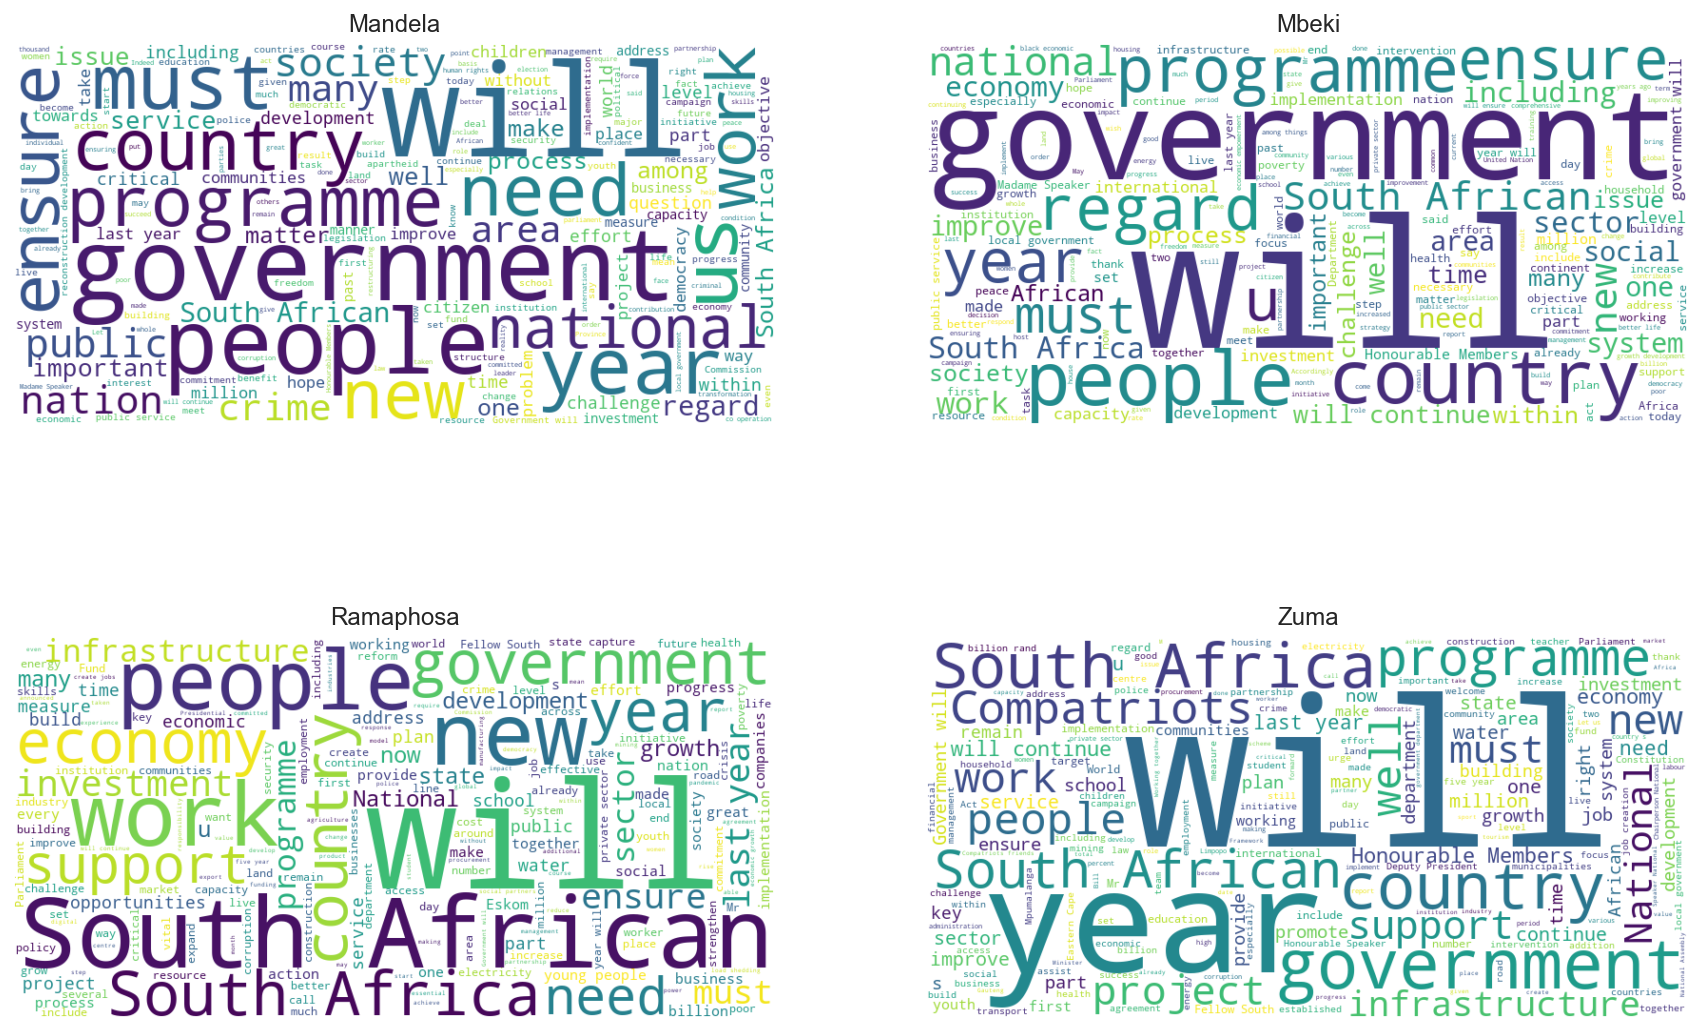
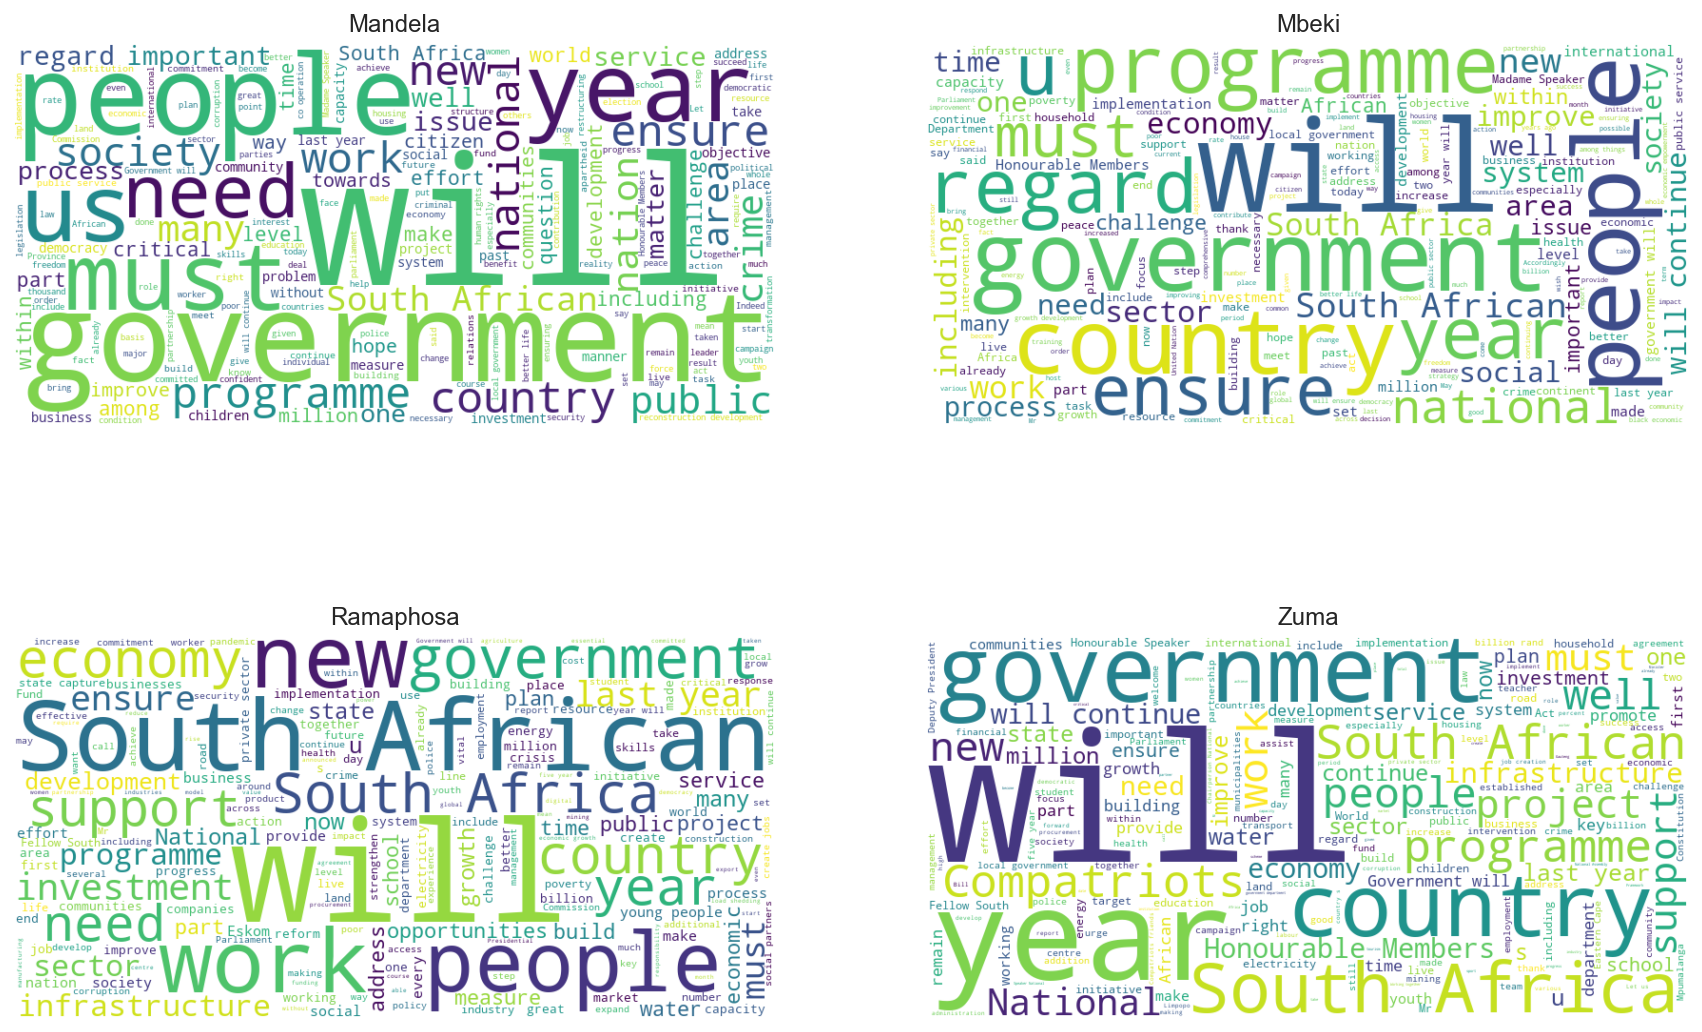
saving word embedding plots for consistency

diff --git a/docs/index.html b/docs/index.html
@@ -341,28 +341,31 @@ Test Accuracy: 58.80%</code></pre>
 <pre><code> 1/57 [..............................] - ETA: 5s</code></pre>
 </div>
 <div class="cell-output cell-output-stdout">
-<pre><code>10/57 [====&gt;.........................] - ETA: 0s</code></pre>
+<pre><code> 9/57 [===&gt;..........................] - ETA: 0s</code></pre>
 </div>
 <div class="cell-output cell-output-stdout">
-<pre><code>19/57 [=========&gt;....................] - ETA: 0s</code></pre>
+<pre><code>17/57 [=======&gt;......................] - ETA: 0s</code></pre>
 </div>
 <div class="cell-output cell-output-stdout">
-<pre><code>28/57 [=============&gt;................] - ETA: 0s</code></pre>
+<pre><code>25/57 [============&gt;.................] - ETA: 0s</code></pre>
 </div>
 <div class="cell-output cell-output-stdout">
-<pre><code>37/57 [==================&gt;...........] - ETA: 0s</code></pre>
+<pre><code>33/57 [================&gt;.............] - ETA: 0s</code></pre>
 </div>
 <div class="cell-output cell-output-stdout">
-<pre><code>46/57 [=======================&gt;......] - ETA: 0s</code></pre>
+<pre><code>41/57 [====================&gt;.........] - ETA: 0s</code></pre>
 </div>
 <div class="cell-output cell-output-stdout">
-<pre><code>55/57 [===========================&gt;..] - ETA: 0s</code></pre>
+<pre><code>48/57 [========================&gt;.....] - ETA: 0s</code></pre>
 </div>
 <div class="cell-output cell-output-stdout">
-<pre><code>57/57 [==============================] - 0s 6ms/step</code></pre>
+<pre><code>57/57 [==============================] - ETA: 0s</code></pre>
+</div>
+<div class="cell-output cell-output-stdout">
+<pre><code>57/57 [==============================] - 0s 7ms/step</code></pre>
 </div>
 <div class="cell-output cell-output-display">
-<p><img src="index_files/figure-html/cell-23-output-9.png" class="img-fluid"></p>
+<p><img src="index_files/figure-html/cell-23-output-10.png" class="img-fluid"></p>
 </div>
 </div>
 </section>
@@ -446,7 +449,7 @@ Test Accuracy: 59.58%</code></pre>
 <pre><code>27/57 [=============&gt;................] - ETA: 0s</code></pre>
 </div>
 <div class="cell-output cell-output-stdout">
-<pre><code>54/57 [===========================&gt;..] - ETA: 0s</code></pre>
+<pre><code>53/57 [==========================&gt;...] - ETA: 0s</code></pre>
 </div>
 <div class="cell-output cell-output-stdout">
 <pre><code>57/57 [==============================] - 0s 2ms/step</code></pre>
@@ -464,32 +467,18 @@ Test Accuracy: 59.58%</code></pre>
 <p>Accuracy: 29.18%</p>
 <div class="cell" data-execution_count="37">
 <div class="cell-output cell-output-stdout">
-<pre><code>Accuracy: 28.84%
+<pre><code>Accuracy: 29.18%
 Classification Report:
               precision    recall  f1-score   support
 
      Mandela       0.00      0.00      0.00       334
-       Mbeki       0.25      0.00      0.00       480
-   Ramaphosa       0.29      0.92      0.45       526
-        Zuma       0.22      0.07      0.10       456
+       Mbeki       0.00      0.00      0.00       480
+   Ramaphosa       0.29      0.95      0.45       526
+        Zuma       0.26      0.05      0.08       456
 
     accuracy                           0.29      1796
-   macro avg       0.19      0.25      0.14      1796
-weighted avg       0.21      0.29      0.16      1796
-</code></pre>
-</div>
-<div class="cell-output cell-output-stderr">
-<pre><code>/opt/anaconda3/envs/firstEnv/lib/python3.10/site-packages/sklearn/metrics/_classification.py:1469: UndefinedMetricWarning:
-
-Precision and F-score are ill-defined and being set to 0.0 in labels with no predicted samples. Use `zero_division` parameter to control this behavior.
-
-/opt/anaconda3/envs/firstEnv/lib/python3.10/site-packages/sklearn/metrics/_classification.py:1469: UndefinedMetricWarning:
-
-Precision and F-score are ill-defined and being set to 0.0 in labels with no predicted samples. Use `zero_division` parameter to control this behavior.
-
-/opt/anaconda3/envs/firstEnv/lib/python3.10/site-packages/sklearn/metrics/_classification.py:1469: UndefinedMetricWarning:
-
-Precision and F-score are ill-defined and being set to 0.0 in labels with no predicted samples. Use `zero_division` parameter to control this behavior.
+   macro avg       0.14      0.25      0.13      1796
+weighted avg       0.15      0.29      0.15      1796
 </code></pre>
 </div>
 </div>
@@ -498,31 +487,32 @@ Precision and F-score are ill-defined and being set to 0.0 in labels with no pre
 <p><img src="index_files/figure-html/cell-39-output-1.png" class="img-fluid"></p>
 </div>
 </div>
-<p>In Figure XXX we look to the confusion matrix of the GBT using word embeddings. For Mandela, there were 38 correct predictions from 334 instances, translating to an accuracy of 11.4%. The Mbeki class had 10 correct predictions from 480 instances, resulting in an accuracy of just 2.1%. The classifier showed a stronger performance for the Ramaphosa class, correctly identifying 342 out of 526 instances, yielding an accuracy of 65.0%. The Zuma class had 163 correct predictions from 456 instances, resulting in an accuracy of 35.7%.</p>
-<p>Misclassifications were also evident. Notably, 183 Mandela instances were misclassified as Ramaphosa and 111 as Zuma. For Mbeki, the classifier misidentified 244 instances as Ramaphosa and 150 as Zuma. The Ramaphosa class had 141 instances misclassified as Zuma, with smaller numbers of misclassifications into Mandela (39) and Mbeki (4). For Zuma, there were 254 instances misclassified as Ramaphosa, 36 as Mandela, and 3 as Mbeki.</p>
-<div class="cell" data-execution_count="39">
+<p>In Figure XXX we look to the confusion matrix of the GBT using word embeddings. For the Mandela class, out of 334 instances, there were no correct predictions, resulting in a classification accuracy of 0%. The Mbeki class similarly did not have any correct predictions for its primary label from 480 instances, but 3 instances were misclassified as Mandela. The Ramaphosa class achieved the highest accuracy, with 505 correct predictions out of 526 instances, translating to an accuracy of 96.0%. The Zuma class had 14 correct predictions from 456 instances, yielding an accuracy of 3.1%.</p>
+<p>Looking at misclassifications, the Mandela class had a significant 323 instances misclassified as Ramaphosa and 11 as Zuma. The Mbeki class saw a substantial 464 instances misclassified as Ramaphosa and 13 as Zuma. The Ramaphosa class had 21 instances misclassified as Zuma. Lastly, the Zuma class had a significant 442 instances misclassified as Ramaphosa.</p>
+<p>The significant misclassifications into the Ramaphosa class from other categories suggest a strong bias in the classifier towards this class, which is concerning yet somewhat unsurprising given the models performance in terms of accuracy and F1-score.</p>
+<div class="cell" data-execution_count="40">
 <div class="cell-output cell-output-display">
-<p><img src="index_files/figure-html/cell-40-output-1.png" class="img-fluid"></p>
+<p><img src="index_files/figure-html/cell-41-output-1.png" class="img-fluid"></p>
 </div>
 </div>
 </section>
 </section>
 <section id="svm-1" class="level2">
 <h2 class="anchored" data-anchor-id="svm-1">SVM</h2>
-<div class="cell" data-execution_count="41">
+<div class="cell" data-execution_count="42">
 <div class="cell-output cell-output-stdout">
-<pre><code>Accuracy (Specific SVM): 29.29%
+<pre><code>Accuracy (Specific SVM): 29.12%
 Classification Report (Specific SVM):
               precision    recall  f1-score   support
 
      Mandela       0.00      0.00      0.00       334
        Mbeki       0.00      0.00      0.00       480
-        Zuma       0.29      1.00      0.45       526
-   Ramaphosa       0.00      0.00      0.00       456
+        Zuma       0.29      0.98      0.45       526
+   Ramaphosa       0.21      0.02      0.03       456
 
     accuracy                           0.29      1796
-   macro avg       0.07      0.25      0.11      1796
-weighted avg       0.09      0.29      0.13      1796
+   macro avg       0.13      0.25      0.12      1796
+weighted avg       0.14      0.29      0.14      1796
 </code></pre>
 </div>
 <div class="cell-output cell-output-stderr">
@@ -540,43 +530,32 @@ Precision and F-score are ill-defined and being set to 0.0 in labels with no pre
 </code></pre>
 </div>
 </div>
-<p>In Figure XXX we see the word embeddnigs SVM confusion matrix: For the Mandela class, 13 correct predictions were made out of 334 instances, yielding a classification accuracy of 3.9%. The Mbeki class observed a more substantial accuracy of 61.5, with 295 correct predictions from 480 instances. The classifier identified the Ramaphosa class accurately in 269 out of 526 instances, resulting in a 51.1% accuracy rate. The Zuma class had 142 correct predictions out of 456 instances, translating to an accuracy of 31.1%.</p>
-<p>Regarding misclassifications, a significant number of Mandela instances, 178, were misclassified as Mbeki, followed by 79 as Ramaphosa and 64 as Zuma. In the Mbeki class, 117 instances were identified as Ramaphosa and 55 as Zuma, with a smaller misclassification into Mandela (13 instances). For the Ramaphosa class, 149 instances were misclassified as Mbeki, 94 as Zuma, and a minor count into Mandela (14 instances). For the Zuma class, there were notable misclassifications into Mbeki (141 instances) and Ramaphosa (151 instances), with a smaller number into Mandela (22 instances).</p>
-<div class="cell" data-execution_count="42">
+<p>In Figure XXX we see the word embeddnigs SVM confusion matrix: Ghe model upon inivestigation here has failed greatly. It has simiply predicted all sentencees belonging to Ramaphosa and hence cannot be interpretted at any meaningful level</p>
+<div class="cell" data-execution_count="44">
 <div class="cell-output cell-output-display">
-<p><img src="index_files/figure-html/cell-43-output-1.png" class="img-fluid"></p>
+<p><img src="index_files/figure-html/cell-45-output-1.png" class="img-fluid"></p>
 </div>
 </div>
 </section>
 <section id="neural-network-1" class="level2">
 <h2 class="anchored" data-anchor-id="neural-network-1">Neural Network</h2>
 <p>Accuracy: 36.69%</p>
-<div class="cell" data-execution_count="43">
+<div class="cell" data-execution_count="45">
 <div class="cell-output cell-output-display">
-<p><img src="index_files/figure-html/cell-44-output-1.png" class="img-fluid"></p>
+<p><img src="index_files/figure-html/cell-46-output-1.png" class="img-fluid"></p>
 </div>
 </div>
 <p>Test Accuracy: 36.69%</p>
-<div class="cell" data-execution_count="44">
+<div class="cell" data-execution_count="46">
 <div class="cell-output cell-output-stdout">
-<pre><code>Test Loss: 1.3490
-Test Accuracy: 35.19%</code></pre>
+<pre><code>Test Loss: 1.5088
+Test Accuracy: 30.79%</code></pre>
 </div>
 </div>
-<p>We finally examine the confusion matrix for the NN using word embeddings in figure XXX. For the Mandela class, there were no correct predictions from the 334 instances, resulting in a classification accuracy of 0%, notably the model did not predict a single sentence as belonging to Madela. The Mbeki class secured a higher accuracy of 68.5%, with 329 correct predictions out of 480 instances. The Ramaphosa class was correctly identified in 283 out of 526 instances, translating to an accuracy of 53.8%. The Zuma class saw 47 correct predictions from 456 instances, yielding an accuracy of 10.3%. In a similar vein as the SVM, we find that the model tends to</p>
-<p>In terms of misclassifications, the Mandela class was predominantly misclassified as Mbeki (196 instances), followed by Ramaphosa (111 instances) and Zuma (27 instances). For the Mbeki class, there were 131 instances misclassified as Ramaphosa and 20 as Zuma. In the Ramaphosa class, a significant 214 instances were misclassified as Mbeki, with 29 as Zuma. Lastly, the Zuma class had substantial misclassifications into Mbeki (205 instances) and Ramaphosa (204 instances). These patterns highlight areas of misclassification and suggest potential avenues for improving the SVM classifier’s performance. Overall this model seemed to overpredict sentences as belonging to either Mbeki or Ramaphosa.</p>
-<div class="cell" data-execution_count="45">
-<div class="cell-output cell-output-stdout">
-<pre><code> 1/57 [..............................] - ETA: 3s</code></pre>
-</div>
-<div class="cell-output cell-output-stdout">
-<pre><code>43/57 [=====================&gt;........] - ETA: 0s</code></pre>
-</div>
-<div class="cell-output cell-output-stdout">
-<pre><code>57/57 [==============================] - 0s 1ms/step</code></pre>
-</div>
+<p>We finally examine the confusion matrix for the NN using word embeddings in figure XXX. The Neural Network classifier’s performance varied across the classes. In the Mandela class, out of 334 instances, none were correctly predicted, with a substantial portion (235 instances) being misclassified as Ramaphosa. The Mbeki class had a somewhat better accuracy of 28.3%, securing 136 correct predictions out of 480 instances, but a notable 323 instances were erroneously labeled as Ramaphosa. The classifier’s strongest performance was with the Ramaphosa class, achieving an accuracy of 81.9%, correctly predicting 431 out of 526 instances, though 73 were misclassified as Mbeki. The Zuma class resulted in an accuracy of 9.0%, with 41 accurate predictions from 456 instances. However, a significant number, 347 instances, were mislabeled as Ramaphosa. This recurrent bias towards predicting the Ramaphosa class in the Neural Network’s outputs suggests potential areas for model refinement.</p>
+<div class="cell" data-execution_count="48">
 <div class="cell-output cell-output-display">
-<p><img src="index_files/figure-html/cell-46-output-4.png" class="img-fluid"></p>
+<p><img src="index_files/figure-html/cell-49-output-1.png" class="img-fluid"></p>
 </div>
 </div>
 
